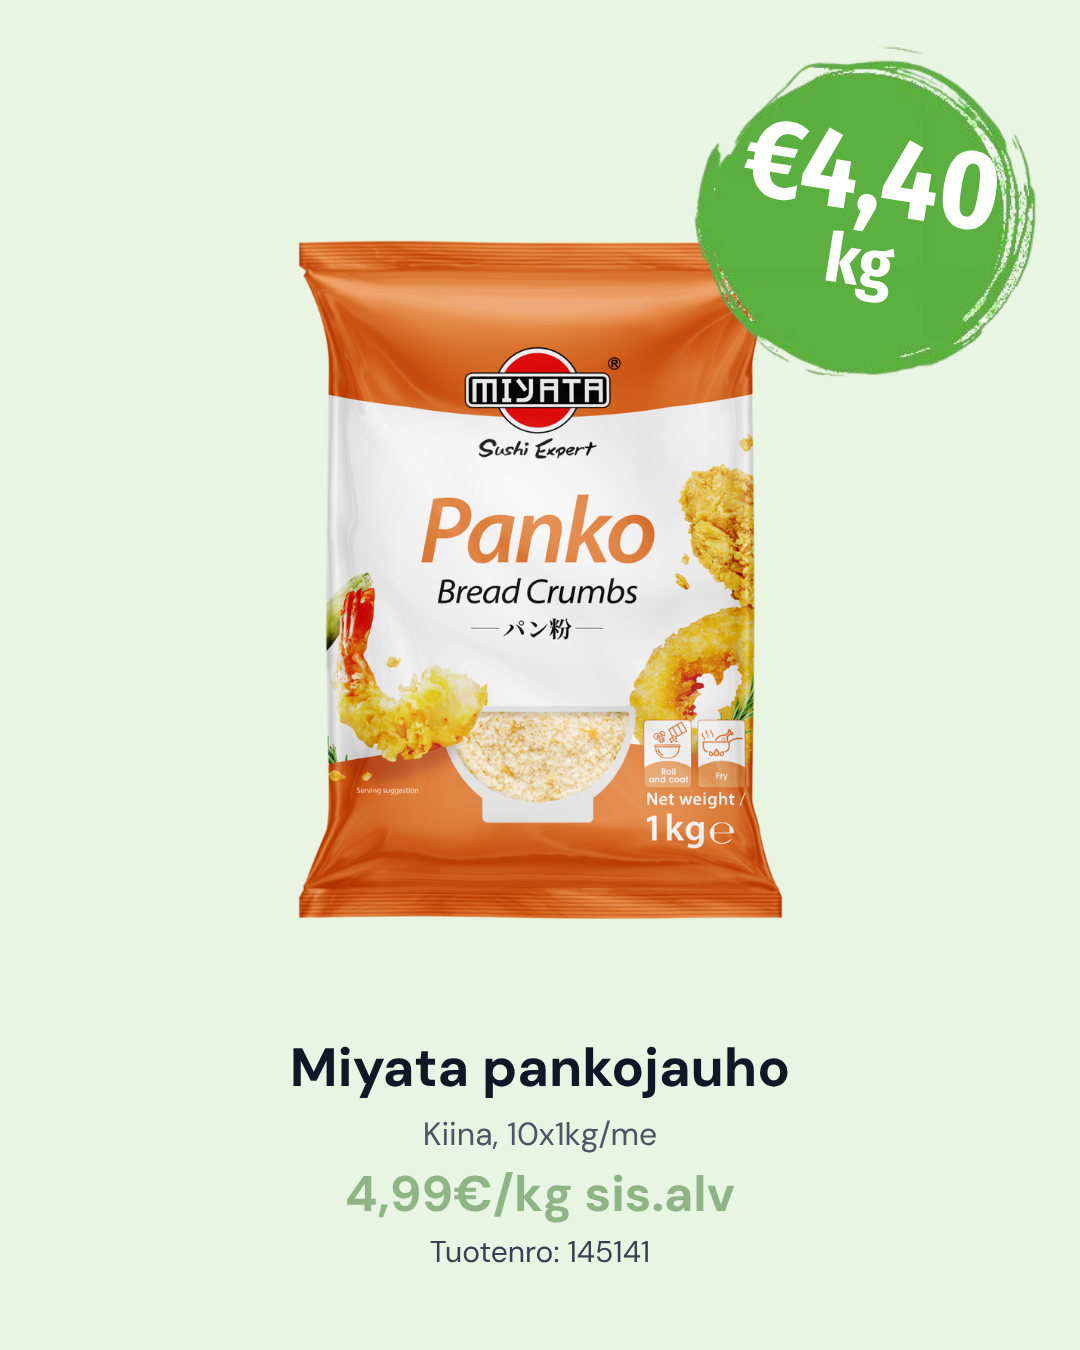
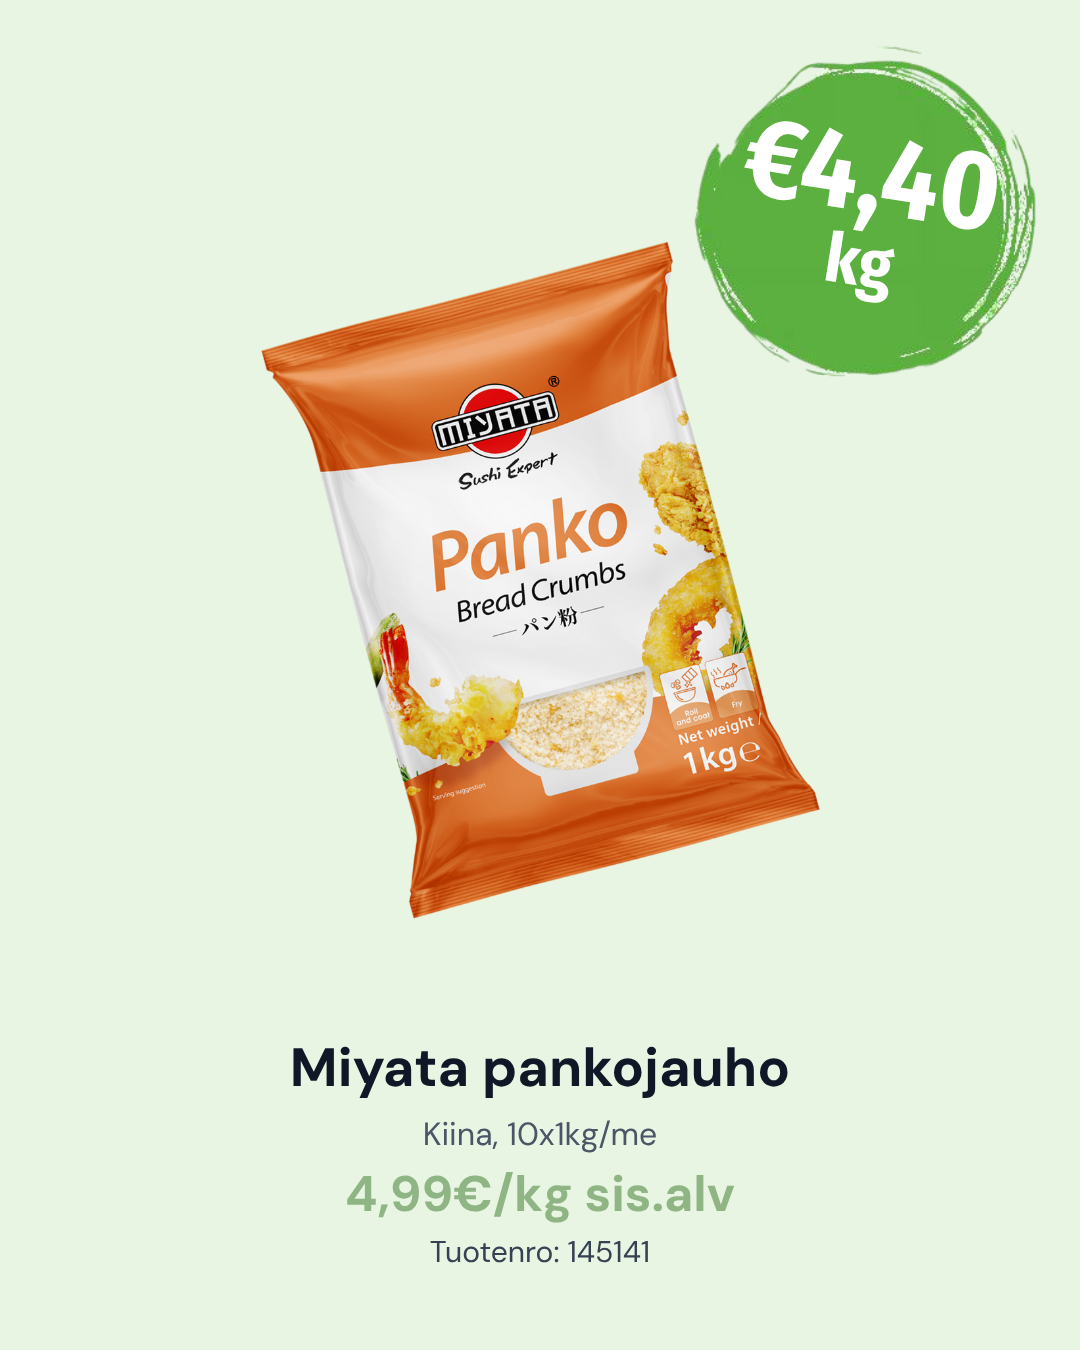
Tilt Miyata pankojauho Instagram photo 15 degrees
Add a per-product tilt setting to the Instagram image builder.

Claude-Session: https://claude.ai/code/session_01X8Lk915b9RmWmbPNMZUzmb

Changed region(s): [[0.2444, 0.1556, 0.7639, 0.6844]]

diff --git a/viikkotarjoukset/insta.py b/viikkotarjoukset/insta.py
@@ -19,6 +19,21 @@ BADGE = 390  # hintapallon halkaisija (px)
 # samat kaikissa kuvissa, jotta sarja on yhtenäinen.
 PHOTO_W, PHOTO_H, PHOTO_TOP = 900, 680, 240
 PHOTO_AREA = 400_000  # tavoitepinta-ala (px²), jotta tuotteet näyttävät yhtä suurilta
+# Kuvan kallistus asteina tuotenumeron mukaan (positiivinen = vastapäivään).
+KALLISTUS = {
+    "145141": 15,  # Miyata pankojauho
+}
+
+
+def tilted(path, code):
+    deg = KALLISTUS.get(code)
+    if not path or not deg:
+        return path
+    out = os.path.join(HERE, "build", "insta", f"{code}-kallistettu.png")
+    with Image.open(path) as im:
+        im = im.convert("RGBA").rotate(deg, resample=Image.BICUBIC, expand=True)
+        im.crop(im.getbbox()).save(out)
+    return out
 TEXT_BOTTOM = 80
 
 
@@ -41,7 +56,7 @@ def page_html(it):
     e = html.escape
     a = lambda n: data_uri(os.path.join(HERE, "pohjat", n))
     vat = (it["price"] * ALV).quantize(Decimal("0.01"), ROUND_HALF_UP)
-    img = find("kuvat", it["code"])
+    img = tilted(find("kuvat", it["code"]), it["code"])
     pw, ph = photo_size(img, PHOTO_W, PHOTO_H, PHOTO_AREA)
     price_fs = 112 if len(money(it["price"])) <= 4 else 92
     return f"""<!doctype html><html><head><meta charset="utf-8">
